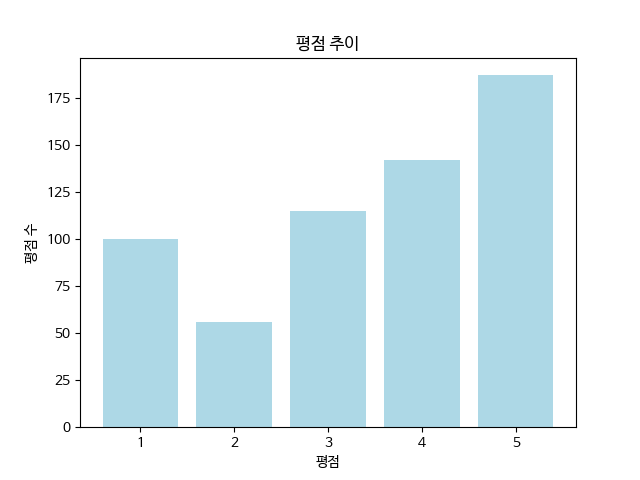
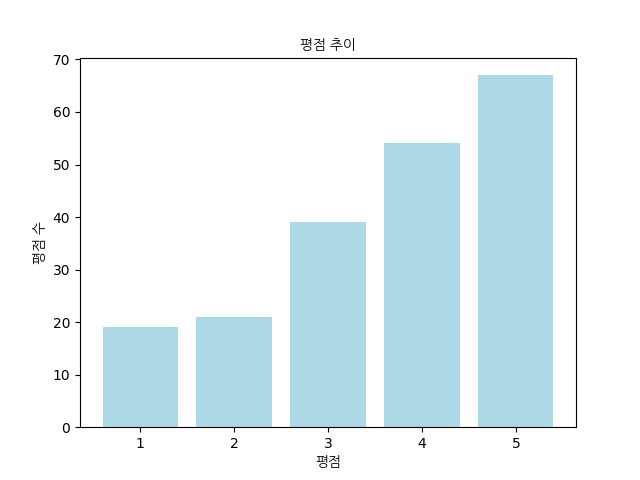
initial commint

diff --git a/ChartsMaker.py b/ChartsMaker.py
@@ -2,6 +2,7 @@
 
 import matplotlib.pyplot as plt
 from matplotlib import rc
+import matplotlib.font_manager as fm
 from User import make_uuid
 from io import BytesIO
 
@@ -11,6 +12,8 @@ from AwsManager import AwsManager
 class ChartsMaker():
     aws = AwsManager()
     uid = ''
+    font_path = "/usr/share/fonts/NanumFont/NanumGothic.ttf"
+    fontprop = fm.FontProperties(fname=font_path)
 
     @classmethod
     def make_charts(self, data, user_id):
@@ -33,10 +36,9 @@ class ChartsMaker():
     @classmethod
     def wordsFrequencyChart(self, words, mentioned_time):
         fig_path = 'static/images/word_frequency_chart.png'
-        plt.rc('font', family='NanumBarunGothic')
-        plt.title('가장 많이 언급된 단어')
-        plt.xlabel('언급된 단어')
-        plt.ylabel('언급 횟수')
+        plt.title('가장 많이 언급된 단어', fontproperties=self.fontprop)
+        plt.xlabel('언급된 단어', fontproperties=self.fontprop)
+        plt.ylabel('언급 횟수', fontproperties=self.fontprop)
         plt.plot(words, mentioned_time, 'skyblue', marker='o', ms=15, mfc='r')
         for x, y in zip(words, mentioned_time):
             label = y
@@ -55,10 +57,9 @@ class ChartsMaker():
     @classmethod
     def ratingChart(self, ratings, rating_counts):
         fig_path = 'static/images/rating_bar_chart.png'
-        plt.rc('font', family='NanumBarunGothic')
-        plt.title('평점 추이')
-        plt.xlabel('평점')
-        plt.ylabel('평점 수')
+        plt.title('평점 추이', fontproperties=self.fontprop)
+        plt.xlabel('평점', fontproperties=self.fontprop)
+        plt.ylabel('평점 수', fontproperties=self.fontprop)
         plt.bar(ratings, rating_counts, color='lightblue')
 
         plt.savefig(fig_path)
@@ -74,7 +75,7 @@ class ChartsMaker():
     def ratingPieChart(self, rating_count, labels_arr):
         fig_path = 'static/images/rating_pie_chart.png'
         labels = ['{}점'.format(i) for i in labels_arr]
-        plt.title('평점 비율')
+        plt.title('평점 비율', fontproperties=self.fontprop)
         plt.pie(rating_count, labels=labels, autopct='%1.f%%')
         plt.axis('equal')
 
@@ -90,9 +91,8 @@ class ChartsMaker():
     @classmethod
     def makeWordCloud(self, words):
         fig_path = 'static/images/word_cloud.png'
-        rc('font', family='NanumBarunGothic')
         # 워드크라우드 디자인 테마 초기 설정
-        wc = WordCloud(font_path='/Library/Fonts/NanumBarunGothic.ttf', background_color='white', colormap='Accent_r',
+        wc = WordCloud(font_path=self.font_path, background_color='white', colormap='Accent_r',
                        width=900, height=400)
         wc.generate_from_frequencies(words)  # 워드크라우드 분석할 데이터를 객체에 삽입
         wc_arrary = wc.to_array()
@@ -108,6 +108,3 @@ class ChartsMaker():
         img.seek(0)
         plt.close()
         return img
-
-
-

diff --git a/FileDownloader.py b/FileDownloader.py
@@ -19,11 +19,3 @@ class FileDownloader() :
             download_file_name = "{}/{}.png".format(download_folder_path, self.chart_names[i])
             print("download", image_file_names[i], download_file_name)
             urllib.request.urlretrieve(image_file_names[i], download_file_name)
-
-# https://analyzed-images-bucket.s3.amazonaws.com/627ed98a-f2c0-4fae-bc3e-4e27de6c5834_word_cloud.png
-name1 = "https://analyzed-images-bucket.s3.amazonaws.com/627ed98a-f2c0-4fae-bc3e-4e27de6c5834_word_cloud.png"
-path = "/Users/mac/Downloads/test_image.png"
-name2 = "627ed98a-f2c0-4fae-bc3e-4e27de6c5834_rating_bar_chart.png"
-name3 = "627ed98a-f2c0-4fae-bc3e-4e27de6c5834_rating_pie_chart.png"
-name4 = "627ed98a-f2c0-4fae-bc3e-4e27de6c5834_word_cloud.png"
-urllib.request.urlretrieve(name1, path)

diff --git a/Review.py b/Review.py
@@ -45,7 +45,7 @@ class Reviews :
 
     @classmethod
     def getHeadlessDriverOptions(self):
-        driver_path = "/Users/mac/0_Dev/PythonProjects/review_analazyer/chromedriver"
+        driver_path = "/home/ubuntu/Downloads/chromedriver"
         user_agent = "Mozilla/5.0 (Macintosh; Intel Mac OS X 10_15_6) AppleWebKit/537.36 (KHTML, like Gecko) Chrome/86.0.4240.80 Safari/537.36"
         options = webdriver.ChromeOptions()
         options.add_argument('headless')
